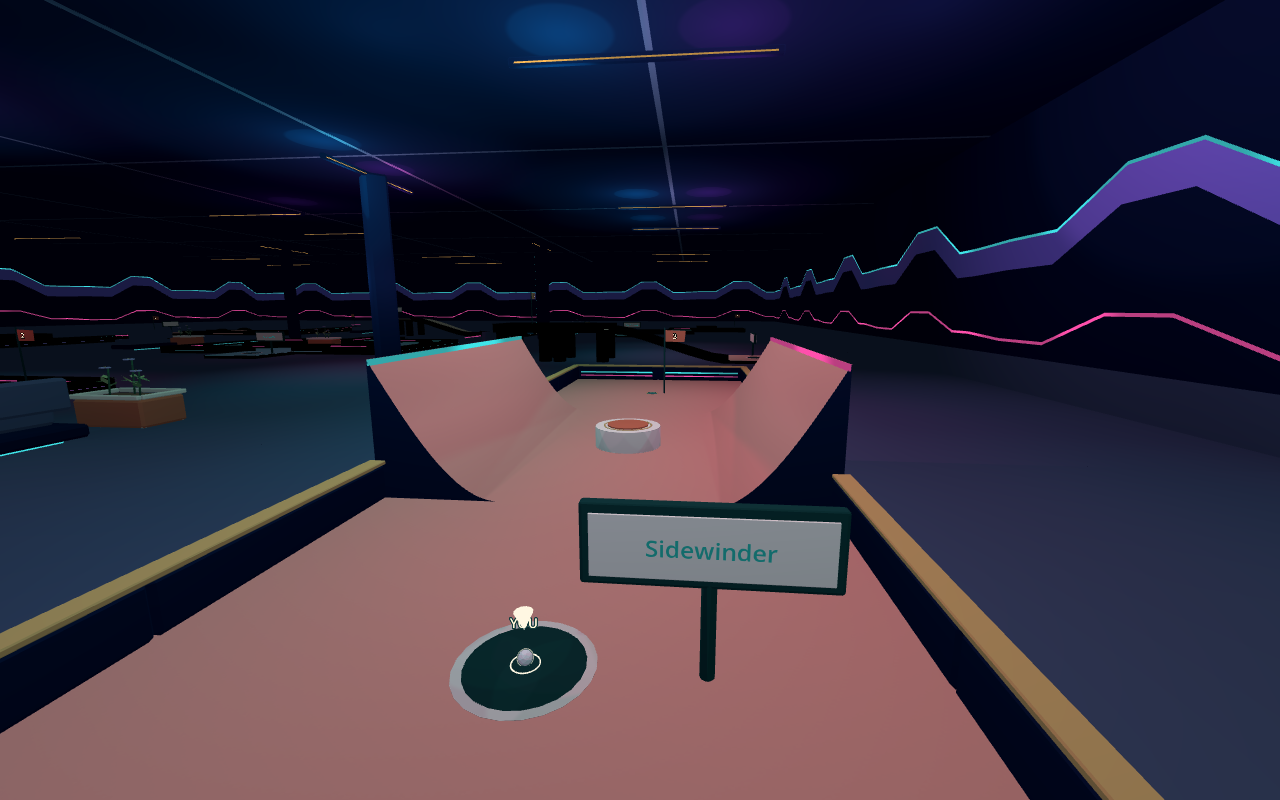
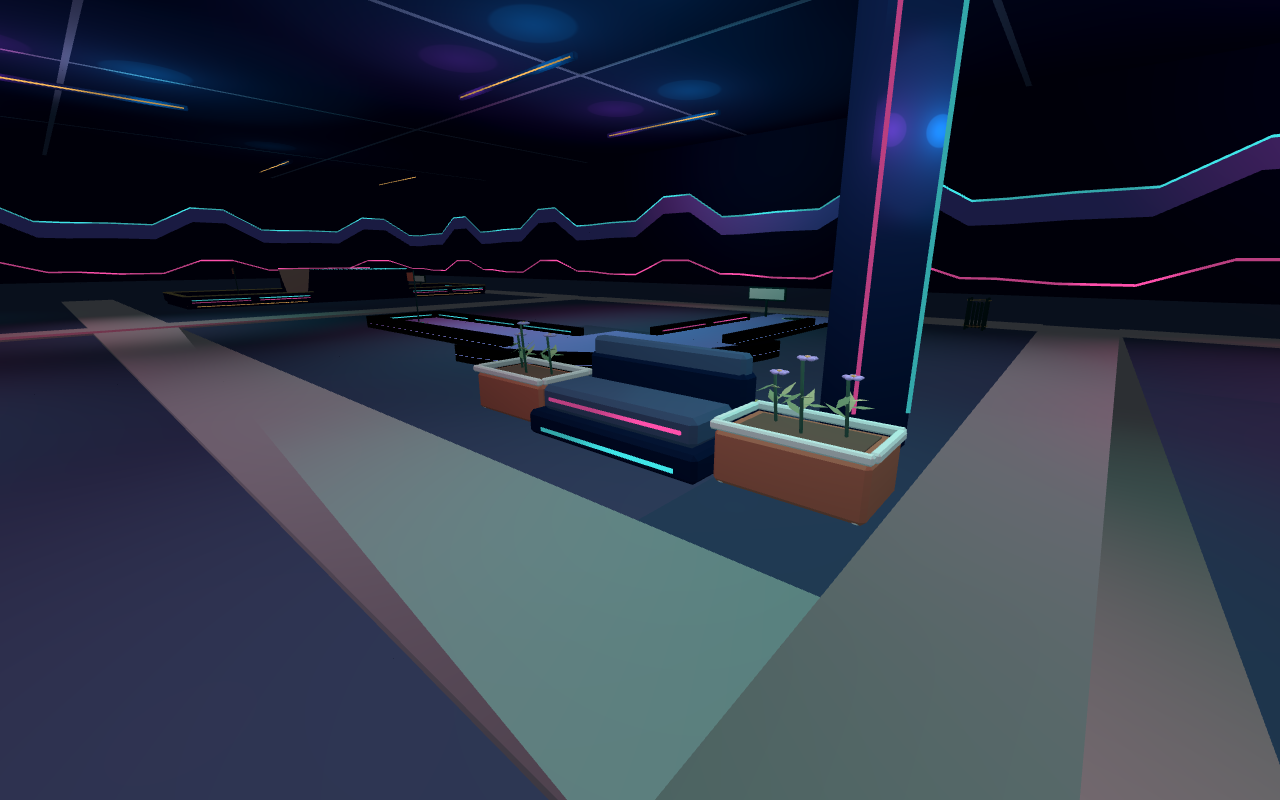
Document 0.1.5 courses, customization and building controls

diff --git a/README.md b/README.md
@@ -15,10 +15,20 @@ same building tools.
 
 <table>
 <tr>
-<td><img src="images/willowbend.png" alt="The first tee at Willowbend Ramble, with garden paths, raised greens and trees" width="640"></td>
-<td><img src="images/midnight-circuit.png" alt="A banked hole at Midnight Circuit, inside a neon-lit arcade" width="640"></td>
+<td><img src="images/willow-island.png" alt="Willow Island, with its timed drawbridge and water moat" width="640"></td>
+<td><img src="images/midnight-circuit.png" alt="Midnight Circuit's neon lounge beside the connected visitor paths" width="640"></td>
 </tr>
-<tr><td>Willowbend Ramble</td><td>Midnight Circuit</td></tr>
+<tr><td>Willow Island · Willowbend Ramble</td><td>Midnight Circuit</td></tr>
+<tr>
+<td><img src="images/willow-creek.png" alt="A creek crossing the garden, with a playing bridge and a separate walking bridge" width="640"></td>
+<td><img src="images/prism-junction.png" alt="Prism Junction's raised tee with guarded ramp access" width="640"></td>
+</tr>
+<tr><td>Brookside · Willowbend Ramble</td><td>Prism Junction</td></tr>
+<tr>
+<td><img src="images/garden-landscaping.png" alt="Editable trees, boulders, ferns, shrubs and flowers between the holes at Bramblewick Heights" width="640"></td>
+<td><img src="images/clockwork-canopy.png" alt="Clockwork Canopy's connected paths, seating patios and planted gardens" width="640"></td>
+</tr>
+<tr><td>Bramblewick gardens</td><td>Clockwork Canopy</td></tr>
 </table>
 
 ## Start playing
@@ -40,6 +50,18 @@ haven't been benchmarked yet.
 - **Courses to play and change.** Try a garden course or an indoor arcade, then
   save your own version. Build with track pieces, ramps, walls, scenery and
   moving obstacles, or sculpt and paint the terrain.
+- **Eleven refreshed layouts.** Follow connected paths between holes and rest
+  areas, with grounded furnishings, gentler landscaping and bounded greens.
+  Willowbend has a creek, bridges and a signature island green with a timed
+  drawbridge. Falling in the water costs a stroke during a scored round.
+- **Gardens you can build.** Planted areas combine trees, flowers, ferns and
+  shrubs with new boulders, flat stones and mossy rock groups. Each new piece
+  is available in the library for your own layouts.
+- **Your ball and putter.** Open **Customize** to choose a ball color and pattern,
+  a blade, mallet or fork putter, and its finish. The starter collection is unlocked;
+  styles are cosmetic and everyone keeps the same putting physics.
+- **Precise building.** Switch connections and grid snapping independently,
+  show a world grid, fit supported pieces to terrain and resize the drawbridge.
 - **Putting with your mouse.** Draw the club back and swing through. Easy mode
   guides contact; Advanced allows off-centre hits and misses. Balls can knock
   into each other, so you don't have to wait for everyone else to putt.
@@ -56,6 +78,9 @@ haven't been benchmarked yet.
 | Choose a tool | 1 Putter · 2 Select · 3 Pieces · 4 Terrain · 5 Draw · 6 Water |
 | Open the piece library | B |
 | Current tool options / full controls | Tab / F1 |
+| Connections / world-grid snap | C / V while building |
+| Show placement grid | Shift+V |
+| Toggle fullscreen | Alt+Enter |
 | Find your ball | F |
 | Take a shot | Hold left mouse; move right to draw back, then left to swing |
 | Aim while addressing the ball | Keep left mouse held and hold right mouse |
@@ -64,6 +89,9 @@ haven't been benchmarked yet.
 Those stroke directions are the defaults. **Settings** lets you change stroke
 direction, handedness and sensitivity. See the [controls guide](CONTROLS.md) for
 building shortcuts, fine adjustments and remapping.
+
+The game fills your window at different aspect ratios. Settings offers borderless
+and exclusive fullscreen; Alt+Enter returns to your previous window layout.
 
 ## Playing with friends
 

diff --git a/CONTROLS.md b/CONTROLS.md
@@ -12,9 +12,11 @@ These are the default controls. Press **F1** in the game for the searchable refe
 | Space | Jump |
 | F | Find your ball |
 | E near a tee | Place your ball at the tee |
+| E at a drawbridge button | Lower the bridge or extend its open timer |
 | P | Place a practice ball between rounds |
 | Backspace | Retry your lie; a penalty applies during a scored round |
 | Escape | Cancel the current action or release the mouse |
+| Alt+Enter | Toggle fullscreen and restore your previous window |
 
 ## Make a putt
 
@@ -42,13 +44,37 @@ You can strike only your own ball, but rolling balls can collide with one anothe
 | Shift+wheel | Change that same adjustment more finely |
 | Alt+1–6 | Equip a favorite piece |
 | G | Toggle guides |
+| C | Toggle piece/path connections |
+| V | Toggle world-grid snapping |
+| Shift+V | Show or hide the placement grid independently of snapping |
 | H | Open the hole list |
 
 Use the library to choose a piece, then **left-click** to place its preview. **Right-click** cancels. Q/E might select Rotation, Height or Size, depending on the piece. The wheel always changes the highlighted setting; Shift refines it. Tab contains snapping, precision and other tool options. For adjustable pieces, **Tab → Resize dimension** chooses the axis to resize.
 
+While placing, hold **Shift** to temporarily suspend connections and grid snapping.
+Releasing it restores your switches. The visible grid stays available for manual
+alignment, with quarter-metre spacing and stronger metre lines. Drawn path ends
+can dock against a curb as a fitted access ramp.
+
+The drawbridge supports **Deck width**, **Gate height** and **Span length**.
+Its settings also control the open duration (2–30 seconds). Either button lowers
+the bridge; pressing again extends the timer or reverses a closing bridge.
+
 With **Select**, click a piece or **Shift-click** to add/remove pieces from a group. **M** picks up the selection; click to confirm its new position. Use **Ctrl+D** for a copy preview, **X** to mirror a supported single piece, and **Ctrl+R** for a repeated row or curve. **Delete** starts batch removal: click to mark or unmark pieces, then **Enter** confirms. **Ctrl+Z** undoes your edit; an undo can be refused if it would overwrite a friend's newer change.
 
 In **Terrain**, hold left mouse to brush and use middle mouse to sample ground height; right mouse cancels a pending ramp. **Draw** uses clicks for endpoints and right mouse to cancel. **Water** uses held left/right mouse to spray/drain. Middle mouse samples a piece where the active construction tool supports it.
+
+## Equipment and display
+
+Open **Customize** from the menu or Settings. Choose the ball color and pattern,
+then the putter style and finish. Use the 3D preview, then **Apply** to save or
+**Cancel** to keep your old selection. Friends see the equipped choices. All
+starter choices are unlocked and have identical putting physics.
+
+The game fills the window at different aspect ratios. In **Settings**, choose
+borderless or exclusive fullscreen. **Alt+Enter** toggles the selected mode;
+returning to windowed mode restores its prior size and position. The operating
+system and graphics backend determine exclusive presentation behavior.
 
 ## Blueprints, saves and recovery
 

diff --git a/notes/0.1.5.md b/notes/0.1.5.md
@@ -1,0 +1,19 @@
+# Putt Together 0.1.5
+
+Fresh course layouts, a new signature island hole, and more ways to make your golfer's equipment your own.
+
+- All eleven included courses have refreshed paths, seating areas and prop placement. Outdoor greens have clearer boundaries and gentler surrounding hills; indoor courses have connected spectator paths and lounges.
+- Planted garden groups fill the spaces between outdoor holes. Six new placeable landscaping pieces include river and split boulders, a flat stone, mossy rocks, ferns and a flowering shrub.
+- Willowbend Ramble now has a creek with playing and walking bridges. Its final Willow Island hole has a water moat and a manual, timed drawbridge. Water uses the existing one-stroke penalty.
+- The drawbridge is a reusable mechanical piece. Adjust its deck width, gate height and span length, and set how long it stays open. Press E at either button to lower it or extend its timer.
+- Customize your equipment: eight ball colors, four ball patterns, three putter styles and four putter finishes. The starter collection is unlocked. Choices save locally and appear in multiplayer; they do not change putting physics. Progression rewards are not implemented yet.
+- C toggles connections, V toggles grid snapping, and Shift+V shows the placement grid. Hold Shift for temporary free placement. These shortcuts can be remapped in F1 Controls.
+- Path entrances can fit the edge of a curb and rise into a short access ramp.
+- The render fills different window shapes, with responsive menus and HUD. Alt+Enter toggles fullscreen; Settings offers borderless and exclusive options.
+- Fixed floating furniture details, including the neon bench trim, and a duplicate course-open click that could show an incorrect unsaved-changes prompt.
+
+Open the included courses from Explore parks to see the new layouts. Your saved copies remain your own designs.
+
+[Download and screenshots](https://github.com/RyanFDev/putt-together-releases)
+ · [Controls](https://github.com/RyanFDev/putt-together-releases/blob/main/CONTROLS.md)
+ · [Playing with friends](https://github.com/RyanFDev/putt-together-releases/blob/main/MULTIPLAYER.md)

diff --git a/GETTING_STARTED.md b/GETTING_STARTED.md
@@ -54,6 +54,13 @@ stroke direction and sensitivity. Easy guides the putter's contact. Advanced
 lets you hit off-centre or miss. Handedness and mouse stroke direction are
 separate settings. Reduce motion and Reduce flashing lights are there too.
 
+Open **Customize** from the menu or Settings to choose your ball's color and
+pattern, putter style and finish. The starter collection is unlocked. These
+choices are cosmetic and are visible to friends in multiplayer.
+
+**Alt+Enter** toggles fullscreen. Settings lets you choose borderless or exclusive
+fullscreen; the game and interface also fit wider, taller or smaller windows.
+
 ## Build something of your own
 
 Choose **Create a park** for an empty outdoor garden or indoor arcade. You can
@@ -65,6 +72,8 @@ also change an included course and use **Save as** to keep your own version.
   **wheel** changes it; hold **Shift** for finer steps. **Tab** opens tool options.
 - **2** selects existing pieces. **M** moves a selection, **Ctrl+D** copies it,
   and **Ctrl+Z** undoes your edit.
+- **C** toggles connections and **V** toggles grid snapping. **Shift+V** shows
+  the placement grid. Hold **Shift** during placement for temporary free positioning.
 - **4** equips Terrain. Choose a brush in **Tab**, then hold left mouse to shape
   or paint the ground. Move existing pieces and balls clear before sculpting
   underneath them.
@@ -75,6 +84,11 @@ also change an included course and use **Save as** to keep your own version.
 The [controls guide](CONTROLS.md) covers drawing paths, resizing pieces,
 blueprints, favourites and the other tools. **F1** opens the current bindings
 inside the game.
+
+Try **Willowbend Ramble** for the creek and signature island hole. Aim at a
+drawbridge button and press **E** to lower it. The countdown starts when it is
+fully lowered; press again to extend the time. A return button is on the island.
+In your own park, the drawbridge's **Tab** options control its size and open time.
 
 ## Keep your work
 

diff --git a/CHANGELOG.md b/CHANGELOG.md
@@ -3,6 +3,23 @@
 [Latest download](https://github.com/RyanFDev/putt-together-releases/releases/latest)
  · [Getting started](GETTING_STARTED.md)
 
+## 0.1.5 — 23 October 2026
+
+- Refreshed all eleven included course layouts, paths, rest areas, grounding and
+  green boundaries; softened surrounding terrain and repaired furniture details.
+- Planted the spaces between holes and added six reusable landscaping props:
+  river and split boulders, a flat stone, mossy rocks, ferns and a flowering shrub.
+- Added Willowbend's creek, bridges, and Willow Island moat hole with a timed,
+  resizable drawbridge operated from either bank.
+- Added saved ball and putter customization, visible to friends in multiplayer.
+  The starter collection is unlocked; progression rewards are not implemented.
+- Added quick connection/grid switches, an independent visible placement grid,
+  and curb-shaped ramp entrances for paths.
+- Added responsive window/aspect handling, fullscreen preferences and Alt+Enter.
+- Fixed the false unsaved-changes prompt after a quick second course-open click.
+
+[Release and download](https://github.com/RyanFDev/putt-together-releases/releases/tag/v0.1.5)
+
 ## 0.1.4 — 23 October 2026
 
 A maintenance release of the Windows beta. The courses, controls and gameplay
